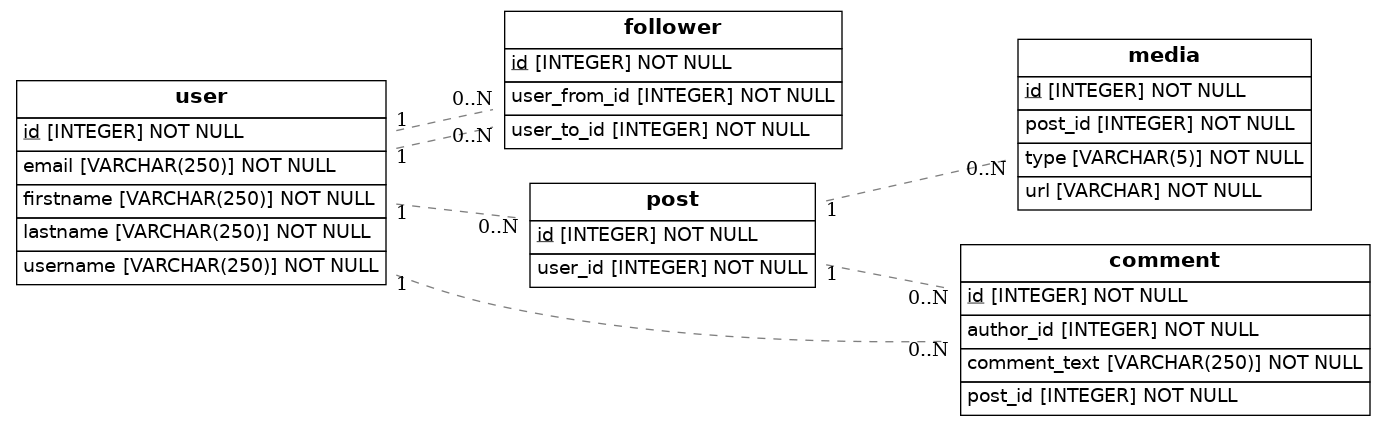
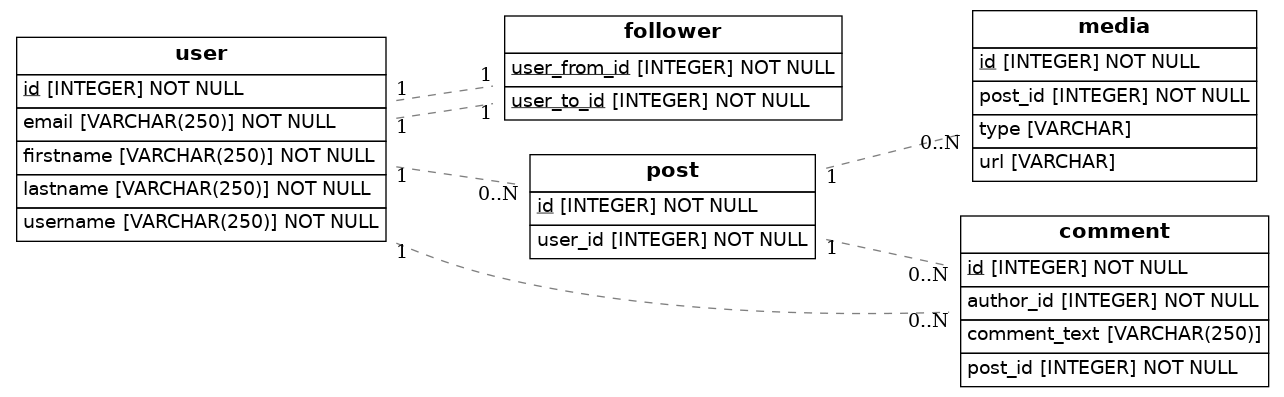
Resuelvo relaciones

diff --git a/src/models.py b/src/models.py
@@ -8,6 +8,15 @@ from eralchemy2 import render_er
 Base = declarative_base()
 
 
+
+class Follower(Base):
+    __tablename__ = "follower"
+    user_from_id= Column(Integer, ForeignKey('user.id'), nullable = False, primary_key = True)
+    user_to_id = Column(Integer,ForeignKey('user.id'), nullable = False, primary_key = True)
+    
+    
+
+
 class User(Base):
     __tablename__ = 'user'
     # Here we define columns for the table person
@@ -16,15 +25,19 @@ class User(Base):
     username = Column(String(250), nullable=False)
     firstname = Column(String(250), nullable=False)
     lastname = Column(String(250), nullable=False)
-    email = Column(String(250),unique=True)
+    email = Column(String(250),unique=True, nullable = False)
+
+    followed = relationship(
+        'User',
+        secondary= 'Follower',
+        primaryjoin = (Follower.user_from_id == id),
+        secondaryjoin = (Follower.user_to_id == id),
+        backref="following",
+        lazy='dynamic'
+    )
 
 
-class Follower(Base):
-    __tablename__ = "follower"
-    user_from_id= Column(Integer, ForeignKey('user.id'), nullable = False)
-    user_to_id = Column(Integer,ForeignKey('user.id'), nullable = False)
-    follower = relationship(User)
-    
+
 
 
 class Post(Base):
@@ -35,7 +48,7 @@ class Post(Base):
 
 class Media(Base):
     __tablename__ = "media"
-    id = Column(Integer)
+    id = Column(Integer, primary_key = True)
     type= Column(Enum)
     url = Column(String)
     post_id = Column(Integer, ForeignKey('post.id'), nullable = False)
